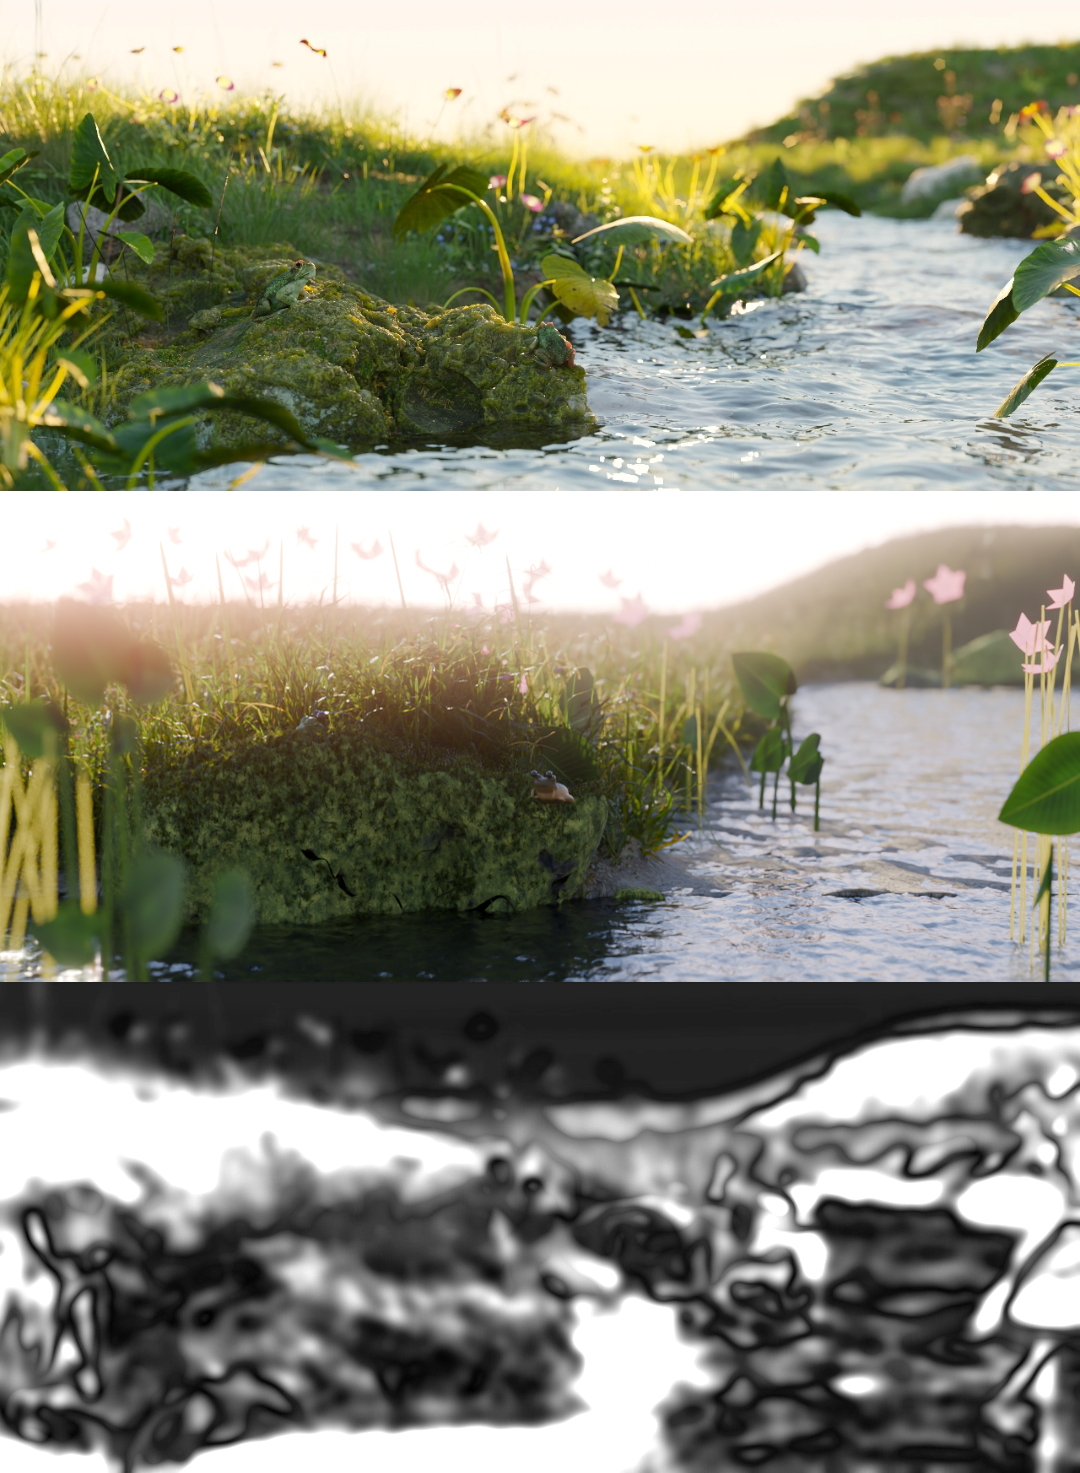
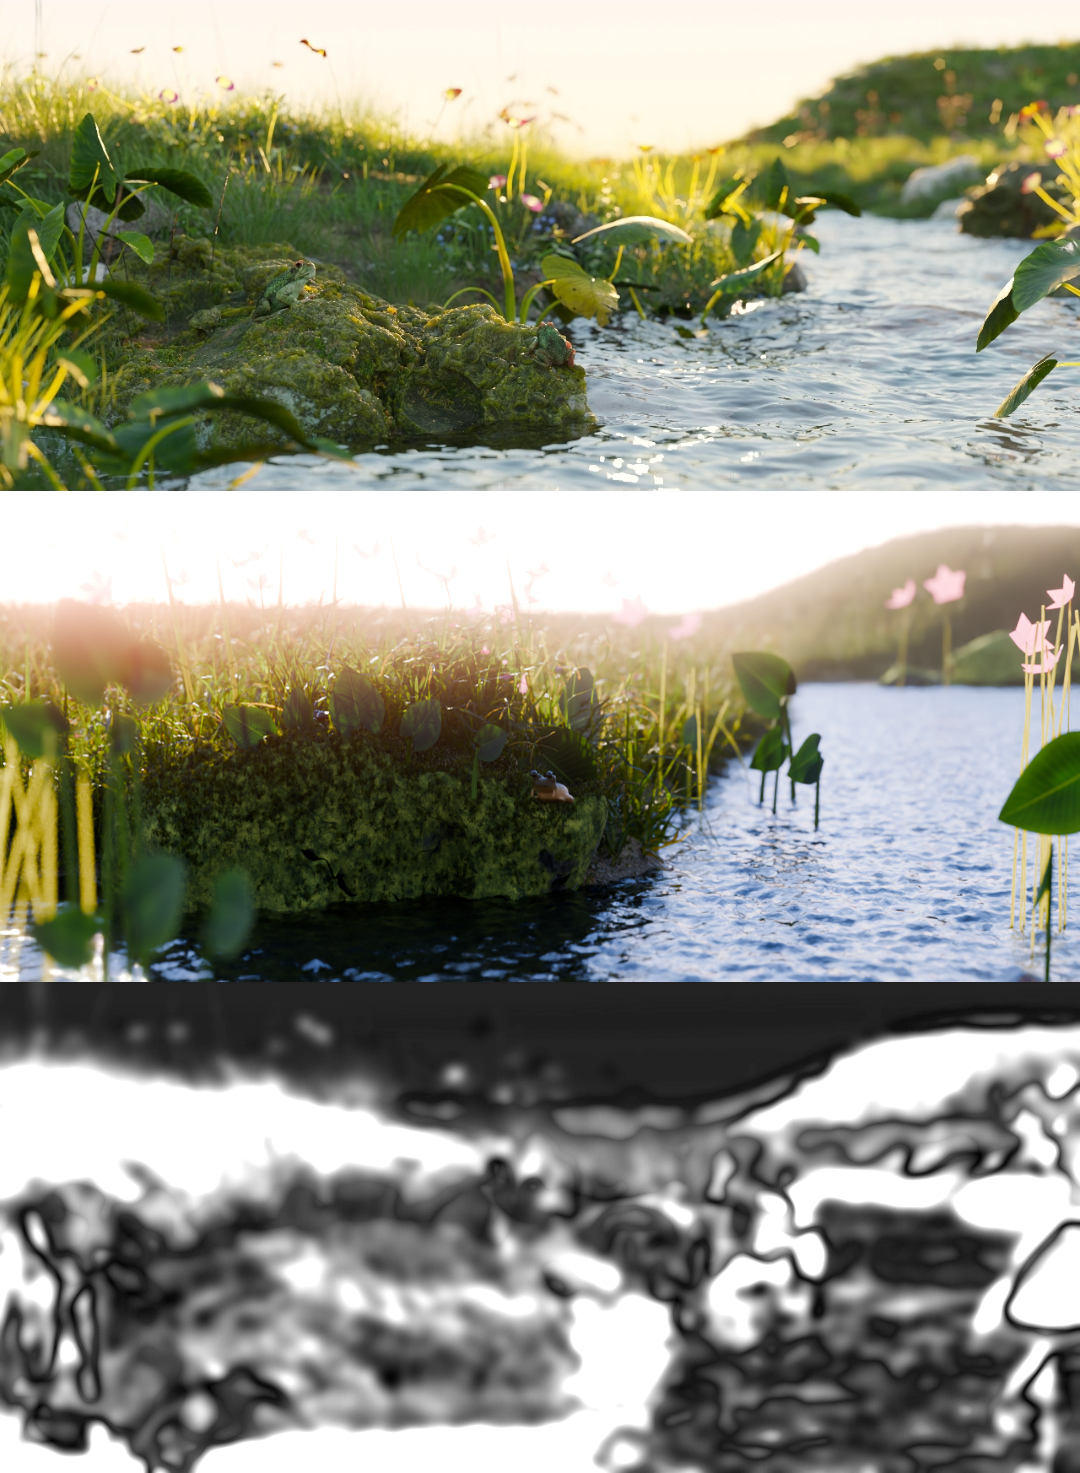
Creek scene: taro sprouts on the rock, bald patches in the grass, higher contrast, livelier bluer water
Claude-Session: https://claude.ai/code/session_01K2jeMQuhDLuDxGG8CNrseQ

diff --git a/tools/creek/build_scene.py b/tools/creek/build_scene.py
@@ -441,6 +441,12 @@ def bank_weight(p):
     return 1.0
 
 
+def bald(p):
+    """Small bald patches where the grass thins out."""
+    n = noise.noise(Vector((p.x * 6.0, p.y * 6.0, 11.0)))
+    return 1 - 0.92 * smooth(0.0, 0.2, n)
+
+
 def near_weight(p):
     # thick near the rock and on the visible bank, fading with distance
     if p.z < 0.012:
@@ -465,11 +471,15 @@ def rock_bank_weight(p):
 def back_weight(p):
     if p.z < 0.012 or p.y > 2.6:
         return 0.0
+    return _back_weight(p) * bald(p)
+
+
+def _back_weight(p):
     # tall grass on the far left; thin and short toward the gap above the stream
     return smooth(0.3, 0.6, p.y) * (1 - 0.8 * smooth(-0.6, 0.0, p.x))
 
 
-weight_group(terrain, "grass", near_weight)
+weight_group(terrain, "grass", lambda p: near_weight(p) * bald(p))
 weight_group(terrain, "short", bank_weight)
 weight_group(terrain, "bankmoss", rock_bank_weight)
 weight_group(terrain, "back", back_weight)
@@ -622,10 +632,10 @@ def build_water():
     w = bpy.context.object
     w.name = "water"
     w.scale = (2.8, 5.6, 1)
-    w.location = (0.8, 1.6, 0.0)
+    w.location = (0.8, 1.6, 0.008)
     bpy.ops.object.transform_apply(scale=True)
     link(w, world_coll)
-    for i, (kind, size, strength, stretch) in enumerate((("waves", 0.03, 0.005, 2.5), ("chop", 0.008, 0.0045, 1.8))):
+    for i, (kind, size, strength, stretch) in enumerate((("waves", 0.03, 0.009, 2.5), ("chop", 0.008, 0.0065, 1.8))):
         tx = bpy.data.textures.new("water_" + kind, "CLOUDS")
         tx.noise_scale = size
         tx.noise_depth = 2
@@ -642,7 +652,7 @@ def build_water():
         p.use_smooth = True
     m, nt, out = new_material("water")
     b = node(nt, "ShaderNodeBsdfPrincipled", (0, 0))
-    b.inputs["Base Color"].default_value = (0.85, 0.92, 0.95, 1)
+    b.inputs["Base Color"].default_value = (0.72, 0.86, 1.0, 1)
     b.inputs["Roughness"].default_value = 0.025
     b.inputs["IOR"].default_value = 1.333
     b.inputs["Specular IOR Level"].default_value = 0.42
@@ -780,7 +790,7 @@ def stem_mesh(points, radius):
     return me
 
 
-def taro(px, py, d, size_px, tip, tilt, droop=0.10, fold=0.05, lean=0.25):
+def taro(px, py, d, size_px, tip, tilt, droop=0.10, fold=0.05, lean=0.25, base_at=None):
     """Leaf blade seen at reference pixel (px, py), distance d, length size_px pixels.
 
     tip: direction the tip points in the image, degrees (0 = right, 90 = up).
@@ -793,6 +803,8 @@ def taro(px, py, d, size_px, tip, tilt, droop=0.10, fold=0.05, lean=0.25):
     gy = attach.y + rnd.uniform(0.0, 0.5) * size
     gz = min(ground_height(gx, gy), 0.0) if ground_height(gx, gy) < 0.005 else ground_height(gx, gy)
     base = Vector((gx, gy, gz - 0.01))
+    if base_at is not None:
+        base = Vector(base_at(gx, gy)) - Vector((0, 0, 0.004))
     blade_base = attach - Vector((math.cos(math.radians(tip)), 0, math.sin(math.radians(tip)))) * size * 0.45
     pts = []
     for k in range(13):
@@ -1008,6 +1020,11 @@ p2 = unproject(553, 350, 0.98)
 frog("frog_top", on_rock(p1.x, p1.y), -70, 0.048, "frog_green_color.png")
 frog("frog_edge", on_rock(p2.x, p2.y), 150, 0.03, "frog_brown_color.png")
 
+# small taro sprouts growing out of the moss on top of the rock
+for args in ((355, 205, 1.0, 75, 100, 20), (430, 228, 1.0, 62, 45, 30), (245, 232, 0.98, 58, 145, 25),
+             (500, 250, 0.98, 50, 15, 35), (300, 215, 1.0, 48, 80, 40)):
+    taro(*args, lean=0.1, base_at=on_rock)
+
 
 # ---------------------------------------------------------------- lights, world, camera
 world = bpy.data.worlds.new("sunset")
@@ -1042,7 +1059,7 @@ wn.links.new(lp.outputs["Is Camera Ray"], wmix.inputs["Fac"])
 gl_bg = node(wn, "ShaderNodeBackground", (-100, 200))
 gl_tint = node(wn, "ShaderNodeMix", (-250, 200), data_type="RGBA", blend_type="MULTIPLY")
 gl_tint.inputs["Factor"].default_value = 1.0
-gl_tint.inputs[7].default_value = (0.42, 0.5, 0.6, 1)
+gl_tint.inputs[7].default_value = (0.36, 0.5, 0.72, 1)
 wn.links.new(env.outputs["Color"], gl_tint.inputs[6])
 wn.links.new(gl_tint.outputs[2], gl_bg.inputs["Color"])
 gmix = node(wn, "ShaderNodeMixShader", (-50, 100))
@@ -1110,7 +1127,7 @@ scene.cycles.caustics_reflective = False
 scene.cycles.caustics_refractive = False
 scene.cycles.blur_glossy = 1.0
 scene.view_settings.view_transform = "AgX"
-scene.view_settings.look = "AgX - Medium Low Contrast"
+scene.view_settings.look = "AgX - Medium High Contrast"
 scene.view_settings.exposure = 0.7
 scene.view_layers[0].use_pass_mist = True
 world.mist_settings.start = 1.6
